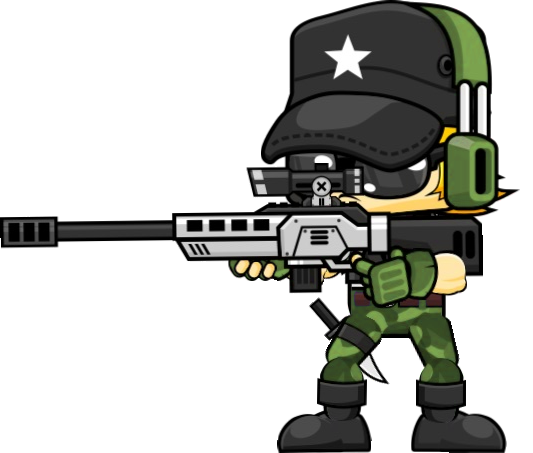
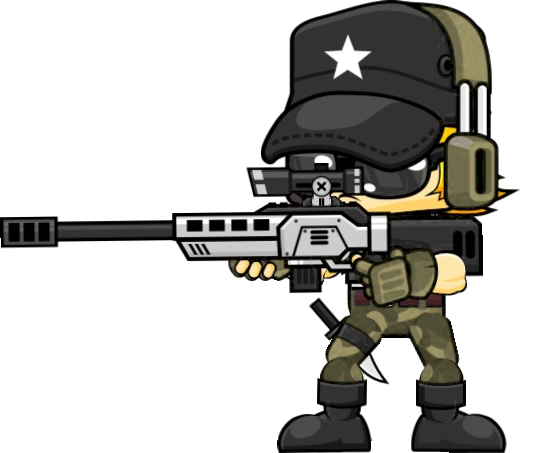
added color change of characters on certain levels

diff --git a/javascript/game.js b/javascript/game.js
@@ -9,6 +9,12 @@ var costupgr4 = 30;
 var upgradelvls = 5;
 var timer = setInterval(upgradeuitvoer, 1000);
 var buttonpressed = 0;
+var soldierimg = "img/soldier.png";
+var sniperimg = "img/sniper.png";
+var soldierhit = "img/soldier2.png";
+var snipershoot = "img/sniper2.png";
+var soldiershot = "img/soldiershot.png";
+var soldierdied = "img/soldierdied.png";
 
 if (localStorage.getItem("player.level") == null) {
 
@@ -55,6 +61,8 @@ function refreshall() {
     document.getElementById("upgrade3").innerHTML = "+ " + enemy.extraloot + " loot <p class='stats upgrade3'>" + costupgr3 + " <img src='img/dog-tag.png' class='price'></p>";
     document.getElementById("loot").innerHTML = "Loot: " + enemy.loot + "<img src='img/dog-tag.png' class='dogtag-loot'>";
     document.getElementById("upgrade4").innerHTML = "+ " + upgradelvls + " lvls <p class='stats upgrade4'>" + costupgr4 + " <img src='img/dog-tag.png' class='price'></p>";
+    soldier.src = soldierimg;
+    sniper.src = sniperimg;
 }
 
 function attack() {
@@ -121,61 +129,121 @@ function checklvl() {
         document.getElementById("vehicle").innerHTML = "Vehicle: None";
         document.getElementById("newguns").innerHTML = "New guns: None";
         background.src = "img/background.png";
+        soldierimg = "img/soldier.png";
+        soldierhit = "img/soldier2.png";
+        soldiershot = "img/soldiershot.png";
+        sniperimg = "img/sniper.png";
+        snipershoot = "img/sniper2.png";
     }
     if (player.level >= 50 && player.level < 75) {
         document.getElementById("vehicle").innerHTML = "Vehicle: Ford F150";
         document.getElementById("newguns").innerHTML = "New guns: Cowboy set";
         background.src = "img/background1.png";
+        soldierimg = "img/soldier-6.png";
+        soldierhit = "img/soldier2-6.png";
+        soldiershot = "img/soldiershot-6.png";
+        sniperimg = "img/sniper-6.png";
+        snipershoot = "img/sniper2-6.png";
     }
     if (player.level >= 75 && player.level < 100) {
         document.getElementById("vehicle").innerHTML = "Vehicle: Ford F150";
         document.getElementById("newguns").innerHTML = "New guns: Cowboy set";
         background.src = "img/background1.png";
+        soldierimg = "img/soldier-6.png";
+        soldierhit = "img/soldier2-6.png";
+        soldiershot = "img/soldiershot-6.png";
+        sniperimg = "img/sniper-6.png";
+        snipershoot = "img/sniper2-6.png";
     }
     if (player.level >= 100 && player.level < 150) {
         document.getElementById("vehicle").innerHTML = "Vehicle: Jeep Wrangler";
         document.getElementById("newguns").innerHTML = "New guns: Civil war set";
         background.src = "img/background2.png";
+        soldierimg = "img/soldier-2.png";
+        soldierhit = "img/soldier2-2.png";
+        soldiershot = "img/soldiershot-2.png";
+        sniperimg = "img/sniper-2.png";
+        snipershoot = "img/sniper2-2.png";
     }
     if (player.level >= 150 && player.level < 200) {
         document.getElementById("vehicle").innerHTML = "Vehicle: Jeep Wrangler";
         document.getElementById("newguns").innerHTML = "New guns: Civil war set";
         background.src = "img/background2.png";
+        soldierimg = "img/soldier-2.png";
+        soldierhit = "img/soldier2-2.png";
+        soldiershot = "img/soldiershot-2.png";
+        sniperimg = "img/sniper-2.png";
+        snipershoot = "img/sniper2-2.png";
     }
     if (player.level >= 200 && player.level < 250) {
         document.getElementById("vehicle").innerHTML = "Vehicle: Humvee";
         document.getElementById("newguns").innerHTML = "New guns: World war 2 set";
         background.src = "img/background3.png";
+        soldierimg = "img/soldier-5.png";
+        soldierhit = "img/soldier2-5.png";
+        soldiershot = "img/soldiershot-5.png";
+        sniperimg = "img/sniper-5.png";
+        snipershoot = "img/sniper2-5.png";
     }
     if (player.level >= 250 && player.level < 300) {
         document.getElementById("vehicle").innerHTML = "Vehicle: Humvee";
         document.getElementById("newguns").innerHTML = "New guns: World war 2 set";
         background.src = "img/background3.png";
+        soldierimg = "img/soldier-5.png";
+        soldierhit = "img/soldier2-5.png";
+        soldiershot = "img/soldiershot-5.png";
+        sniperimg = "img/sniper-5.png";
+        snipershoot = "img/sniper2-5.png";
     }
     if (player.level >= 300 && player.level < 350) {
         document.getElementById("vehicle").innerHTML = "Vehicle: Humvee with turret";
         document.getElementById("newguns").innerHTML = "New guns: Vietnam war set";
         background.src = "img/background4.png";
+        soldierimg = "img/soldier-1.png";
+        soldierhit = "img/soldier2-1.png";
+        soldiershot = "img/soldiershot-1.png";
+        sniperimg = "img/sniper-1.png";
+        snipershoot = "img/sniper2-1.png";
     }
     if (player.level >= 350 && player.level < 400) {
         document.getElementById("vehicle").innerHTML = "Vehicle: Humvee with turret";
         document.getElementById("newguns").innerHTML = "New guns: Vietnam war set";
         background.src = "img/background4.png";
+        soldierimg = "img/soldier-1.png";
+        soldierhit = "img/soldier2-1.png";
+        soldiershot = "img/soldiershot-1.png";
+        sniperimg = "img/sniper-1.png";
+        snipershoot = "img/sniper2-1.png";
     }
     if (player.level >= 400 && player.level < 450) {
         document.getElementById("vehicle").innerHTML = "Vehicle: APC";
         document.getElementById("newguns").innerHTML = "New guns: U.S. Army set";
         background.src = "img/background5.png";
+        soldierimg = "img/soldier-4.png";
+        soldierhit = "img/soldier2-4.png";
+        soldiershot = "img/soldiershot-4.png";
+        sniperimg = "img/sniper-4.png";
+        snipershoot = "img/sniper2-4.png";
     }
     if (player.level >= 450 && player.level < 500) {
         document.getElementById("vehicle").innerHTML = "Vehicle: APC";
         document.getElementById("newguns").innerHTML = "New guns: U.S. Army set";
         background.src = "img/background5.png";
+        soldierimg = "img/soldier-4.png";
+        soldierhit = "img/soldier2-4.png";
+        soldiershot = "img/soldiershot-4.png";
+        sniperimg = "img/sniper-4.png";
+        snipershoot = "img/sniper2-4.png";
     }
     if (player.level >= 500) {
         document.getElementById("vehicle").innerHTML = "Vehicle: M1 Abrams tank";
         document.getElementById("newguns").innerHTML = "New guns: Modern sniper set";
         background.src = "img/background6.png";
+        soldierimg = "img/soldier-3.png";
+        soldierhit = "img/soldier2-3.png";
+        soldiershot = "img/soldiershot-3.png";
+        sniperimg = "img/sniper-3.png";
+        snipershoot = "img/sniper2-3.png";
     }
 }
 
@@ -270,8 +338,8 @@ function upgradeuitvoer() {
 
 function animatie() {
     if (enemy.health > 0) {
-        soldier.src = "img/soldier2.png";
-        sniper.src = "img/sniper2.png";
+        soldier.src = soldierhit;
+        sniper.src = snipershoot;
         setTimeout(shotsoldier, 100);
         setTimeout(normalsniper, 100);
         clearTimeout(shotsoldier);
@@ -279,8 +347,8 @@ function animatie() {
 
     } else {
         attackbtn.disabled = true, setTimeout(attackenable, 1000);
-        soldier.src = "img/soldierdied.png", setTimeout(normalsoldier, 1000);
-        sniper.src = "img/sniper2.png", setTimeout(normalsniper, 100);
+        soldier.src = soldierdied, setTimeout(normalsoldier, 1000);
+        sniper.src = snipershoot, setTimeout(normalsniper, 100);
         clearTimeout(normalsoldier);
         clearTimeout(normalsniper);
         clearTimeout(attackenable);
@@ -288,15 +356,15 @@ function animatie() {
 }
 
 function normalsoldier() {
-    soldier.src = "img/soldier.png";
+    soldier.src = soldierimg;
 }
 
 function normalsniper() {
-    sniper.src = "img/sniper.png"
+    sniper.src = sniperimg;
 }
 
 function shotsoldier() {
-    soldier.src = "img/soldiershot.png";
+    soldier.src = soldiershot;
 }
 
 function attackenable() {

diff --git a/minigame.html b/minigame.html
@@ -16,7 +16,7 @@
             crossorigin="anonymous"></script>
     <link href="css/style.css" rel="stylesheet">
 </head>
-<body onload="refreshall(); checklvl();">
+<body onload="checklvl(); refreshall();">
 <script src="javascript/game.js" rel="script"></script>
 <header>
     <nav class="navbar navbar-expand-lg nopadding">
